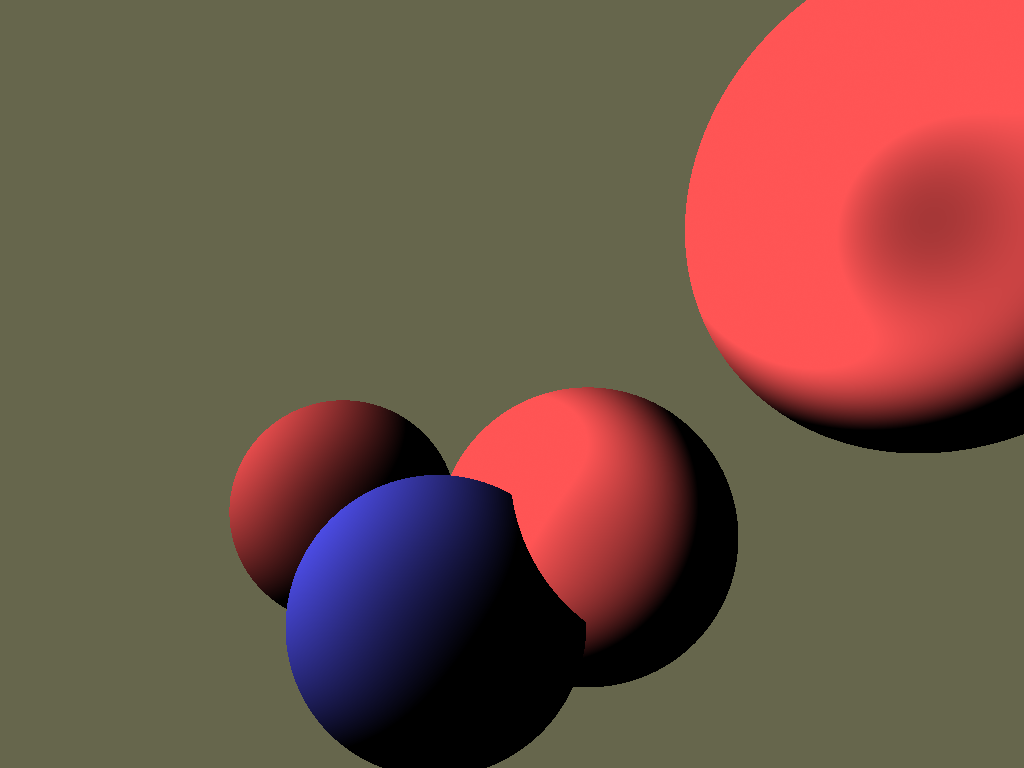
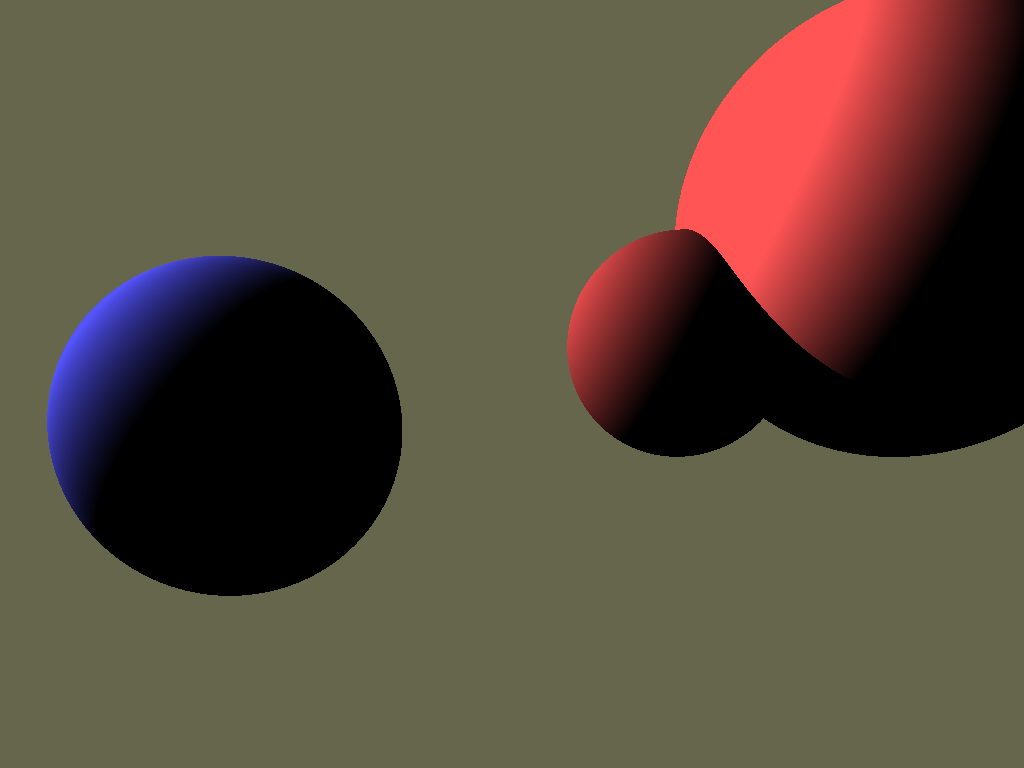
Adding shadow and fixing bug

diff --git a/src/lib.rs b/src/lib.rs
@@ -142,7 +142,7 @@ impl Sphere {
         if l <= 0. {
             return None;
         }
-
+        let l = l.sqrt();
         //These are the two possible hit points
         let mut hit_1 = lambda - l;
         let hit_2 = lambda + l;
@@ -181,7 +181,6 @@ impl Scene {
     }
 
     fn get_intersection(&self, ray: &Ray) -> Option<HitParams> {
-
         let mut hit_params: Option<HitParams> = None;
 
         for o in self.objects.iter() {
@@ -204,16 +203,25 @@ impl Scene {
 
     /// Returns the color of the pixel the ray originates from
     pub fn cast_ray(&self, ray: &Ray) -> Vec3f {
-
         let hit_params = self.get_intersection(ray);
 
-        match hit_params {
+        match &hit_params {
             Some(params) => {
                 let hit = params.to_hit(ray);
 
                 let mut diffuse_light_intensity: f32 = 0.;
                 for light in self.lights.iter() {
                     let light_dir = light.position.minus(&hit.point).normalize();
+
+                    let shadow_orig = match light_dir.dot(&hit.normal) > 0. {
+                        true => hit.point.plus(hit.normal.times(  1e-3)),
+                        false => hit.point.plus(hit.normal.times(- 1e-3)),
+                    };
+
+                    let shadow_ray = Ray::new(shadow_orig, light_dir.times(1.));
+                    let is_hit = self.get_intersection(&shadow_ray).is_some();
+
+                    if is_hit { continue; }
                     diffuse_light_intensity +=
                         light.intensity * f32::max(0., light_dir.dot(&hit.normal));
                 }
@@ -231,11 +239,11 @@ impl Scene {
         let mut frame_buffer = Vec::<Vec3f>::with_capacity(NUM_ELEMENTS);
         frame_buffer.par_extend((0..NUM_ELEMENTS).into_par_iter()
             .map(|i| {
-                let j: usize = i / WIDTH ;
-                let i: usize = i % WIDTH ;
+                let j: usize = i / WIDTH;
+                let i: usize = i % WIDTH;
 
-                let x: f32 = (2. * (i as f32 + 0.5) / WIDTH as f32 - 1.) * f32::tan(FOV/ 2.);
-                let y: f32 = -(2. * (j as f32 + 0.5) / WIDTH as f32 - 1.) * f32::tan(FOV/ 2.);
+                let x: f32 = (2. * (i as f32 + 0.5) / WIDTH as f32 - 1.) * f32::tan(FOV / 2.);
+                let y: f32 = -(2. * (j as f32 + 0.5) / WIDTH as f32 - 1.) * f32::tan(FOV / 2.);
                 let ray = Ray::new(
                     Vec3f::new(0., 0., 0.),
                     Vec3f::new(x, y, -1.),

diff --git a/src/main.rs b/src/main.rs
@@ -1,5 +1,3 @@
-use std::fs::File;
-use std::io::Write;
 use raytacing_test::{WIDTH, HEIGHT};
 use raytacing_test::*;
 
@@ -9,20 +7,20 @@ fn main() {
 
 
     println!("Rendering...");
-    let materials = vec![
+    let _materials = vec![
         Material::new(Vec3f::new(0.3, 0.1, 0.1)),
     ];
-    let spheres = vec![
-        Sphere { radius: 2.0, center: Vec3f::new(-3., 0., -16.), material: Material::default()},
-        Sphere { radius: 2.0, center: Vec3f::new(-1., -1.5, -12.), material: Material::new(Vec3f::new(0.1, 0.1, 0.3))},
-        Sphere { radius: 3., center: Vec3f::new(1.5, -0.5, -18.), material: Material::default() },
-        Sphere { radius: 4., center: Vec3f::new(7., 5., -15.), material: Material::default() },
+    let _spheres = vec![
+        Sphere { radius: 2.0, center: Vec3f::new(3., 3., -16.), material: Material::default()},
+        Sphere { radius: 3.0, center: Vec3f::new(-5., 1.5, -16.), material: Material::new(Vec3f::new(0.1, 0.1, 0.3))},
+//        Sphere { radius: 3., center: Vec3f::new(4.5, 5.5, -18.), material: Material::default() },
+        Sphere { radius: 4., center: Vec3f::new(7., 5., -16.), material: Material::default() },
     ];
-    let lights = vec![
-        Light::new ( Vec3f::new(-30., 20., -5.), 1.5  )
+    let _lights = vec![
+        Light::new ( Vec3f::new(-30., 20., -16.), 1.5  )
     ];
-    let scene = Scene::new(spheres, lights);
-    let mut frame_buffer = scene.render();
+    let scene = Scene::new(_spheres, _lights);
+    let frame_buffer = scene.render();
 
 
     println!("Writing image...");
